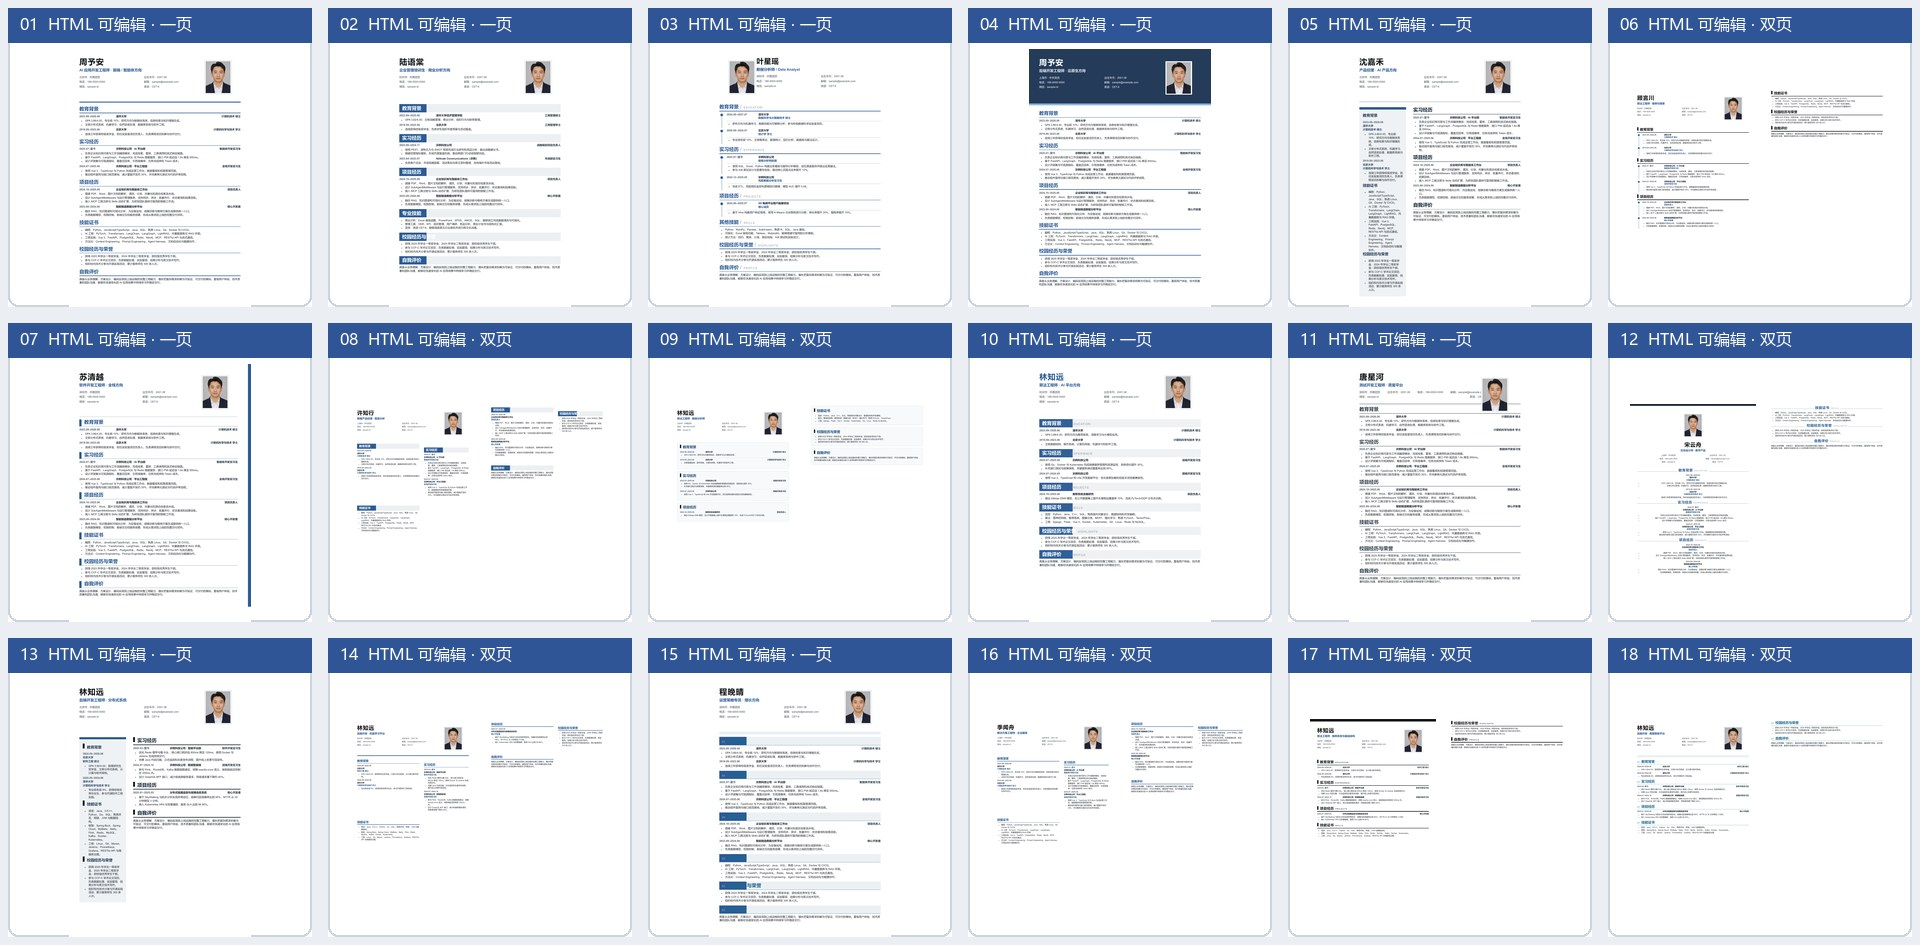
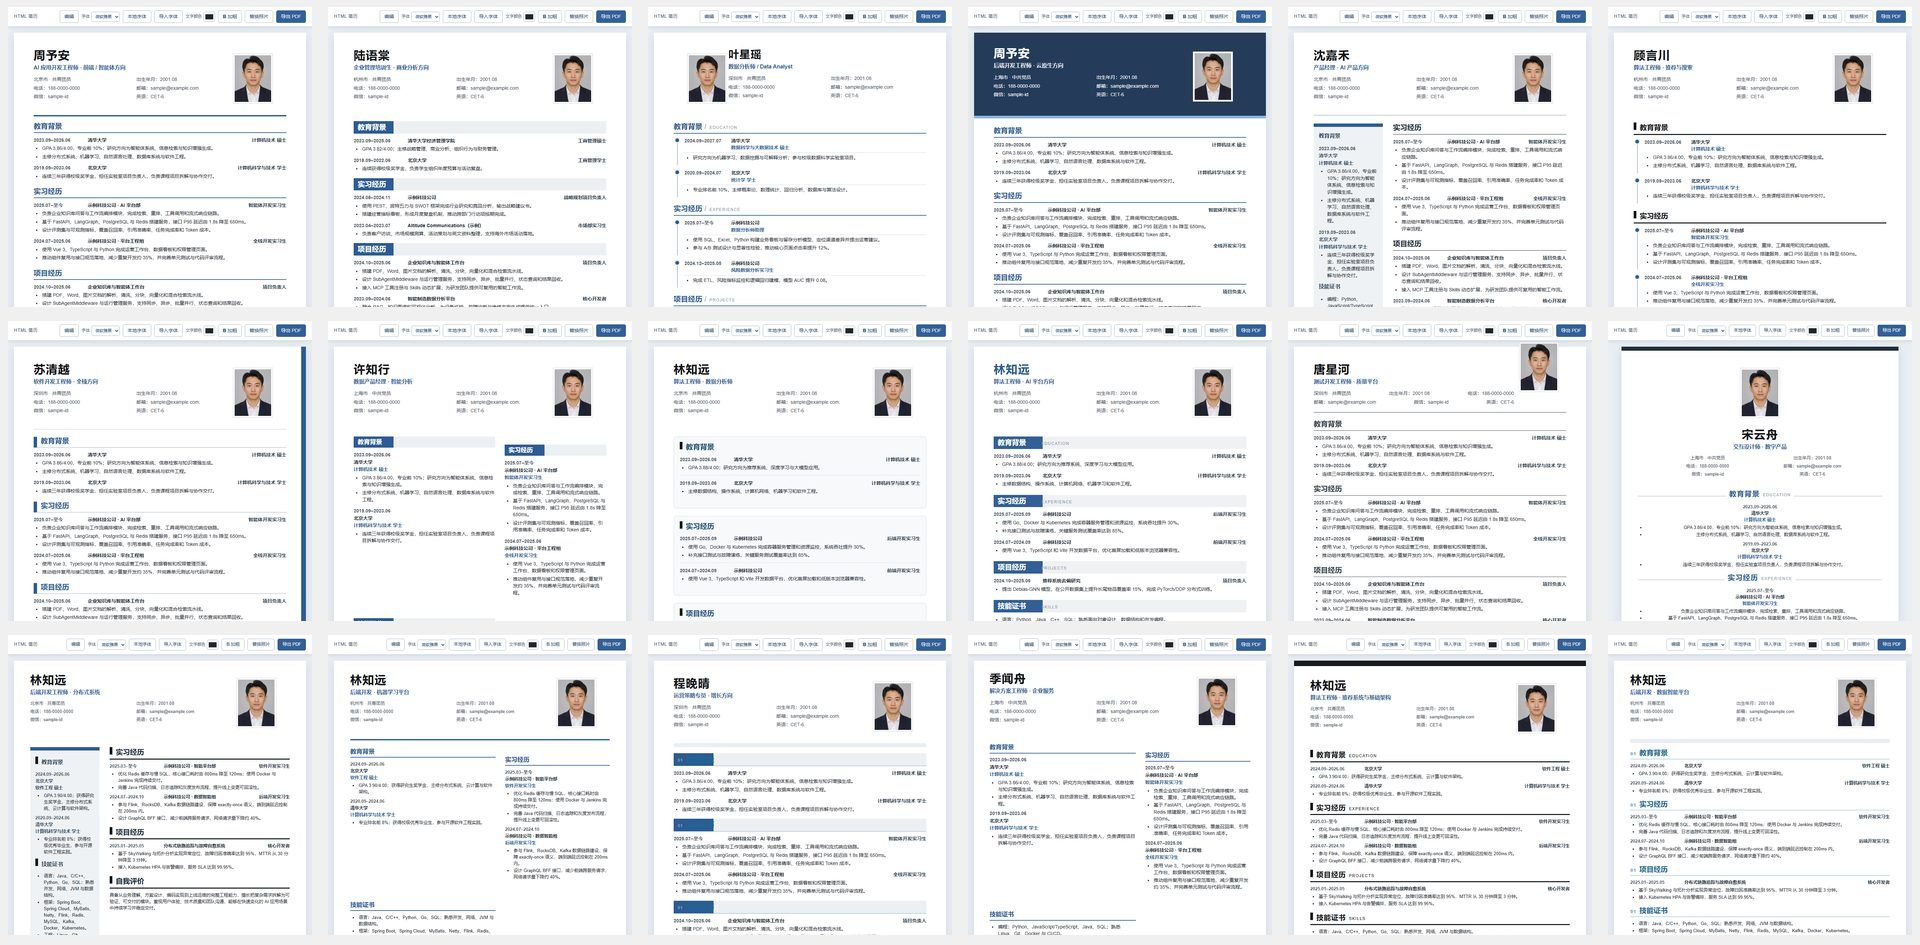
refactor: 完成模板外框解耦的依赖方改造（SKILL 定位 / 校验 / 预览图）
- skills/resume/SKILL.md：资源检测条件从「templates-html/ 下 18 个内置模板」改为
  「frame/ 三部件 + 18 个壳文件」，并在工作流中要求交付前经 inline-template.mjs 内联
- scripts/validate_skills.py：新增 templates 结构校验——frame/ 三部件存在、
  壳文件数量 == 18（交付一致性由确定性内联保证，不维护逐字节基准）
- assets/template-overview.jpg：由 18 套注入产物 6x3 网格重新生成
- assets/templates-html/README.md：说明壳文件是源材料、交付走内联脚本

diff --git a/scripts/validate_skills.py b/scripts/validate_skills.py
@@ -15,7 +15,10 @@
   6. SKILL.md 中引用的本地 references / assets 路径实际存在
      （仅检查相对路径，跳过 http(s)/mailto/锚点）；
   7. .codex-plugin/plugin.json 是合法 JSON，且 interface.capabilities、
-     skills 字段、icon/logo 等指向的本地资源真实存在。
+     skills 字段、icon/logo 等指向的本地资源真实存在；
+  8. assets/templates-html/ 外框解耦结构完整：frame/ 三部件存在、
+     壳文件数量 == 18。交付产物的一致性由 inline-template.mjs 的确定性
+     内联保证，不做产物与历史基准的比对。
 
 退出码：0 表示全部通过，1 表示存在失败项。
 """
@@ -318,6 +321,36 @@ def check_plugin_manifest(report: Report) -> None:
             )
 
 
+def check_templates(report: Report) -> None:
+    """校验 assets/templates-html/ 的外框解耦结构。
+
+    - frame/ 三部件存在（base.css / toolbar.html / editor.js）；
+    - 壳文件数量 == 18。
+
+    交付产物的一致性由 scripts/inline-template.mjs 的确定性内联保证，
+    不做产物与历史基准的比对。
+    """
+    templates_dir = REPO_ROOT / "assets" / "templates-html"
+    if not templates_dir.is_dir():
+        report.add(False, "templates", "缺少 assets/templates-html/")
+        return
+
+    frame_dir = templates_dir / "frame"
+    for part in ("base.css", "toolbar.html", "editor.js"):
+        report.add(
+            (frame_dir / part).is_file(),
+            "templates",
+            f"frame/{part} 存在",
+        )
+
+    shells = sorted(p.name for p in templates_dir.glob("*.html"))
+    report.add(
+        len(shells) == 18,
+        "templates",
+        f"壳文件数量 == 18（当前 {len(shells)}）",
+    )
+
+
 def main() -> int:
     if not SKILLS_DIR.is_dir():
         print(f"skills 目录不存在：{SKILLS_DIR}", file=sys.stderr)
@@ -335,6 +368,7 @@ def main() -> int:
         check_skill(skill_dir, report)
 
     check_plugin_manifest(report)
+    check_templates(report)
 
     print(report.summary())
     return 0 if report.passed else 1

diff --git a/skills/resume/SKILL.md b/skills/resume/SKILL.md
@@ -15,10 +15,11 @@ ASu 资源支持两种布局，按以下顺序定位：
 1. Claude Code 安装布局：`../../assets/asu/`；
 2. 仓库插件布局：`../../assets/`。
 
-只有候选目录同时包含 `resume-data-template.json`、`resume-template-editable.html`、`resume-template-two-page.html`、`template-overview.jpg`、`fictional-resume-photo.png`，以及 `templates-html/` 下全部 18 个内置模板时才使用它，避免把其他 skill 的同名目录或不完整安装误判为 ASu 资源：
+只有候选目录同时包含 `resume-data-template.json`、`resume-template-editable.html`、`resume-template-two-page.html`、`template-overview.jpg`、`fictional-resume-photo.png`，以及 `templates-html/frame/` 三部件（`base.css` / `toolbar.html` / `editor.js`）与 `templates-html/` 下全部 18 个壳文件时才使用它，避免把其他 skill 的同名目录或不完整安装误判为 ASu 资源：
 
 - `resume-data-template.json`：匿名简历内容结构；
-- `templates-html/`：18 个中文 HTML 模板；
+- `templates-html/frame/`：18 套模板共享的外框（样式 / 顶部工具栏 / 编辑脚本）单一来源；
+- `templates-html/`：18 个中文模板壳文件（纯设计稿，无工具栏与脚本；交付前需经 [scripts/inline-template.mjs](../../scripts/inline-template.mjs) 内联为自包含 HTML）；
 - `resume-template-editable.html`：可编辑模板起点；
 - `resume-template-two-page.html`：双页模板起点；
 - `template-overview.jpg`：模板预览图；
@@ -38,7 +39,7 @@ ASu 资源支持两种布局，按以下顺序定位：
 1. 先按“输入清单”盘点材料；用户提供主张—证据账本时，按 [账本状态规则](../asu/references/claim-evidence-ledger.md) 读取事实。缺少关键字段时按“缺失字段补问规则”补问，无法补齐时使用 `待补充` 或 `待确认` 占位，不捏造经历。
 2. 如果用户上传 PDF、已有简历、截图、图片或文档，先提取内容并检查布局；截图类输入还要分析栏位、间距、字体层级、颜色、照片位置和分页，再重建为 HTML。
 3. 按“模板选择矩阵”选择模板、页数和风格；内容能在正常字号下形成完整单页时优先单页，不因模板预设第二张页面而扩页。如果资源缺失，启用后备模板并说明限制。
-4. 输出 HTML 文件，保持文字和布局可编辑；工具栏放在页面外并在打印时隐藏。
+4. 输出 HTML 文件，保持文字和布局可编辑；工具栏放在页面外并在打印时隐藏。内置模板以壳文件形式存放（纯设计稿，无工具栏/脚本），交付给用户前必须经 `scripts/inline-template.mjs` 内联成自包含 HTML（含样式、顶部工具栏、编辑脚本），不能直接把壳文件当交付物。
 5. 把 print-preview 作为导出前强制 QA：打开或模拟打印预览，检查分页、双栏、照片比例、长文本溢出、中文字体、打印边距和 A4 纸张效果；再按 [A4 页面平衡与视觉密度 QA](references/page-balance-qa.md) 测量每页内容占用并保存整页截图。发现问题先修复 HTML/CSS 再交付。
 6. 用户需要 PDF 时，按“PDF 导出验收标准”说明浏览器打印设置或导出命令，或按用户要求生成 PDF；不要用截图替代可编辑源文件。
 

diff --git a/assets/templates-html/README.md b/assets/templates-html/README.md
@@ -29,11 +29,9 @@ assets/templates-html/
 node scripts/inline-template.mjs assets/templates-html/01-大厂极简简历模板.html out.html
 # 或一次性内联全部壳文件
 node scripts/inline-template.mjs --all dist/templates
-# 或回归校验：内联产物与历史基准逐字节相等
-node scripts/inline-template.mjs --check <基准目录>
 ```
 
-inline 脚本会把 `frame/base.css` 内联进 `<head>`、注入 `frame/toolbar.html` 与 `frame/editor.js`、移除 `design-preview` 类，产物与重构前**逐字节等价**。
+inline 脚本会把 `frame/base.css` 内联进 `<head>`、注入 `frame/toolbar.html` 与 `frame/editor.js`、移除 `design-preview` 类。内联是确定性的，产物与重构前**逐字节等价**——交付统一走脚本即可，不做手动拼接，也不维护逐字节基准。[scripts/validate_skills.py](../../scripts/validate_skills.py) 只校验结构完整性（`frame/` 三部件存在、壳文件数量 == 18）。
 
 **注意**：壳文件拷出仓库会断链（缺 `frame/`）。请始终交付 inline 之后的文件，不要把壳文件直接交给用户。
 
